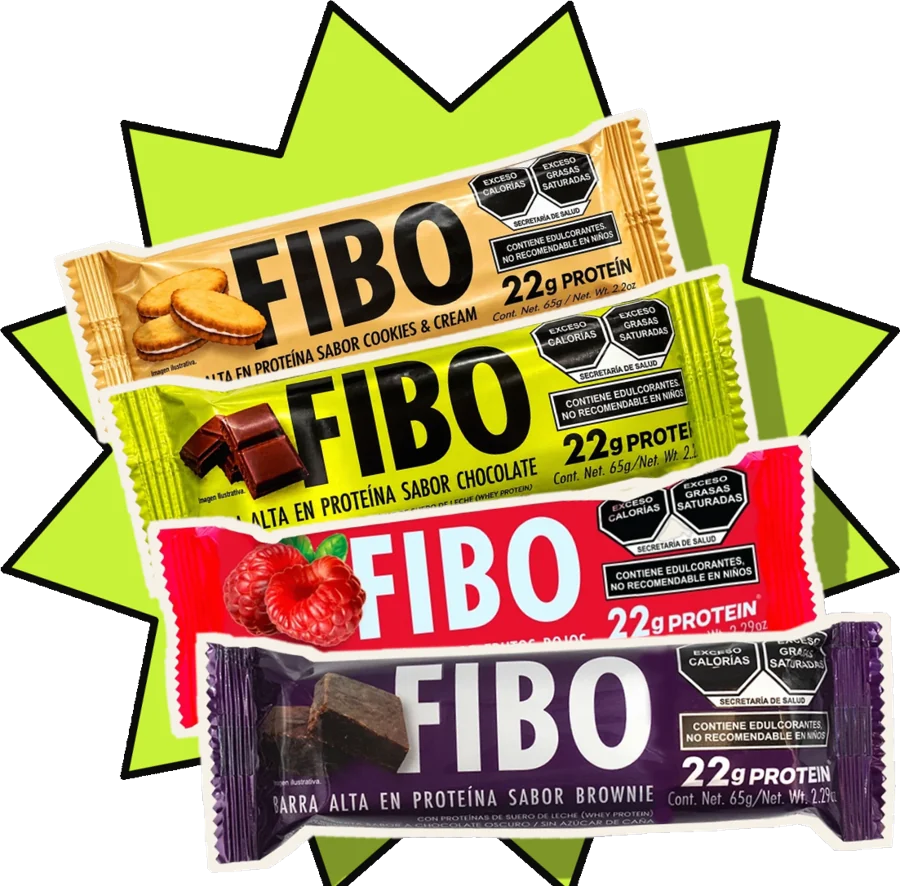
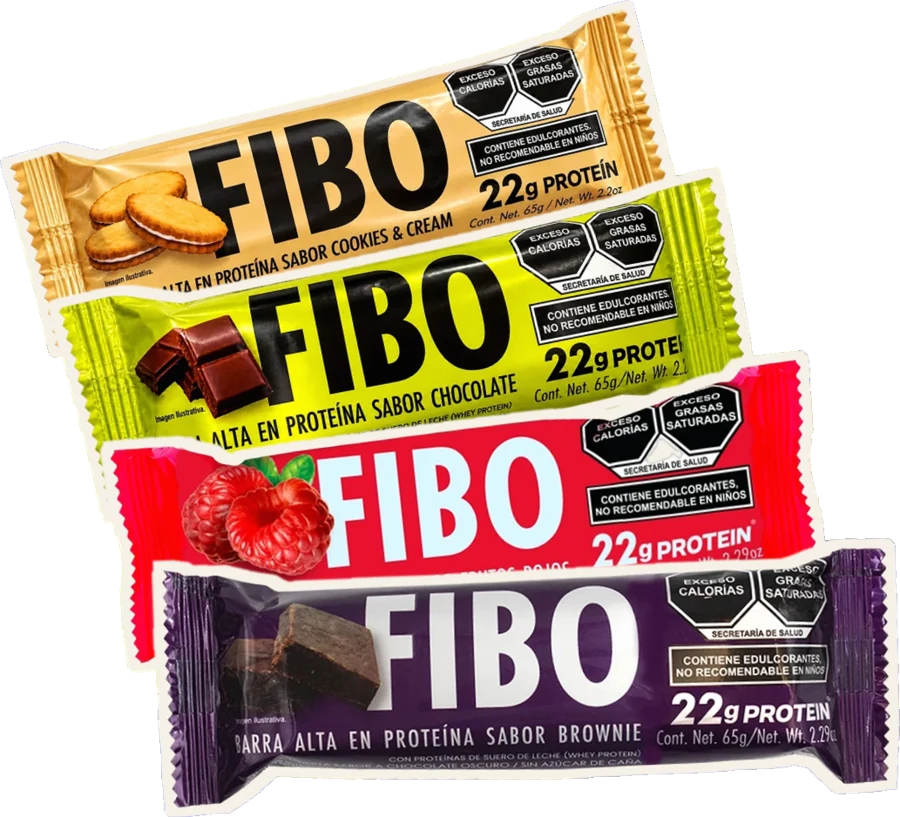
Remove starburst background from product shot, keep only the bars
Claude-Session: https://claude.ai/code/session_01So6spMQLmFrc4w5ei5S2bV

diff --git a/styles.css b/styles.css
@@ -374,7 +374,7 @@ a.card--orange:hover .px-arrow { transform: translateX(10px); }
   cursor: crosshair;
 }
 .hero__product canvas {
-  display: block; width: 100%; aspect-ratio: 1103 / 1086;
+  display: block; width: 100%; aspect-ratio: 1033 / 938;
   filter: drop-shadow(12px 14px 0 #0a0a0a);
   animation: bob 5s ease-in-out infinite;
 }
